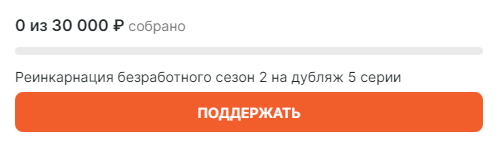
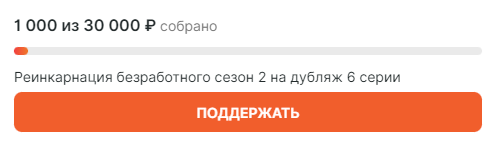
update

diff --git a/mli/mushoku-tensei-ii-isekai-ittara-honki-dasu.html b/mli/mushoku-tensei-ii-isekai-ittara-honki-dasu.html
@@ -6,13 +6,13 @@
 	<head>
 	<meta charset="utf-8">
 	<meta http-equiv="X-UA-Compatible" content="IE=edge">
-	<title>Реинкарнация безработного: История о приключениях в другом мире 2 / Mushoku Tensei II: Isekai Ittara Honki Dasu [05 из 25]</title>
+	<title>Реинкарнация безработного: История о приключениях в другом мире 2 / Mushoku Tensei II: Isekai Ittara Honki Dasu [06 из 25]</title>
 	<meta name="viewport" content="width=device-width, initial-scale=1">
 	<meta name="description" content="Смотреть онлайн аниме Реинкарнация безработного: История о приключениях в другом мире 2 / Перерождение безработного 2 / Mushoku Tensei II: Isekai Ittara Honki Dasu. Прямое продолжение аниме-сериала «Реинкарнация безработного». 34-летний NEET гибнет в ДТП и попадает в магический мир. Вместо того чтобы очнуться полноценным магом, он перевоплощается в младенца, сохранив воспоминания о предыдущей жизни. Еще прежде чем начал ходить, он решил не совершать ошибок прошлого. Так начинается история Рудеуса Грейрата, сына фехтовальщика Пола и целительницы Зенит." />
 	<!--<link rel="import" href="/scripts.html">-->
 
 
-	<meta property="og:title" content="Реинкарнация безработного: История о приключениях в другом мире 2 / Mushoku Tensei II: Isekai Ittara Honki Dasu [05 из 25]"/>
+	<meta property="og:title" content="Реинкарнация безработного: История о приключениях в другом мире 2 / Mushoku Tensei II: Isekai Ittara Honki Dasu [06 из 25]"/>
 	<meta property="og:image" content="/img/poster/mushoku-tensei-ii-isekai-ittara-honki-dasu.jpg"/>
 	<meta property="og:url" content="/mli/mushoku-tensei-ii-isekai-ittara-honki-dasu.html"/>
 	<meta property="og:site_name" content=""/>
@@ -74,7 +74,7 @@
            </div>
 		
 		   <div class="lines"></div>
-		   <h4 style="margin-bottom: .75rem;">Mushoku Tensei II: Isekai Ittara Honki Dasu [05 из 25]<br><small class="text-muted">Реинкарнация безработного: История о приключениях в другом мире 2</small></h4>
+		   <h4 style="margin-bottom: .75rem;">Mushoku Tensei II: Isekai Ittara Honki Dasu [06 из 25]<br><small class="text-muted">Реинкарнация безработного: История о приключениях в другом мире 2</small></h4>
 		   <div class="lines"></div>
 	  </div>
 	  

diff --git a/embed/mushoku-tensei-ii-isekai-ittara-honki-dasu.html b/embed/mushoku-tensei-ii-isekai-ittara-honki-dasu.html
@@ -24,7 +24,8 @@
 	  {"title":"Эпизод 01","file":"[720p]https://mcrnfs001.000webhostapp.com/?v=661278236,[1080p]https://mcrnfs001.000webhostapp.com/?v=661278893"},
 	  {"title":"Эпизод 02","file":"[720p]https://mcrnfs001.000webhostapp.com/?v=661486162,[1080p]https://mcrnfs001.000webhostapp.com/?v=661504869"},
 	  {"title":"Эпизод 03","file":"[720p]https://mcrnfs001.000webhostapp.com/?v=661858946,[1080p]https://mcrnfs001.000webhostapp.com/?v=661862772"},
-	  {"title":"Эпизод 04","file":"[720p]https://mcrnfs001.000webhostapp.com/?v=662061488,[1080p]https://mcrnfs001.000webhostapp.com/?v=662064799"}
+	  {"title":"Эпизод 04","file":"[720p]https://mcrnfs001.000webhostapp.com/?v=662061488,[1080p]https://mcrnfs001.000webhostapp.com/?v=662064799"},
+	  {"title":"Эпизод 05","file":"[720p]https://mcrnfs001.000webhostapp.com/?v=662355097,[1080p]https://mcrnfs001.000webhostapp.com/?v=662356130"}
    ],
         embed: 'https://macaron.fun/embed/mushoku-tensei-ii-isekai-ittara-honki-dasu.html',
 		url: 'https://macaron.fun/mli/mushoku-tensei-ii-isekai-ittara-honki-dasu.html',

diff --git a/macaron-reklama.html b/macaron-reklama.html
@@ -4,4 +4,4 @@
     margin-right: auto;
 }
 </style>
-<a href="https://boosty.to/aphoenixvoice/single-payment/donation/444952/target" target="_blank"><img style="width: 100%; border-radius: calc(1.25rem - 1px);" src="/sb.png"></a>
+<a href="https://boosty.to/aphoenixvoice/single-payment/donation/449262/target?share=target_link" target="_blank"><img style="width: 100%; border-radius: calc(1.25rem - 1px);" src="/sb.png"></a>
